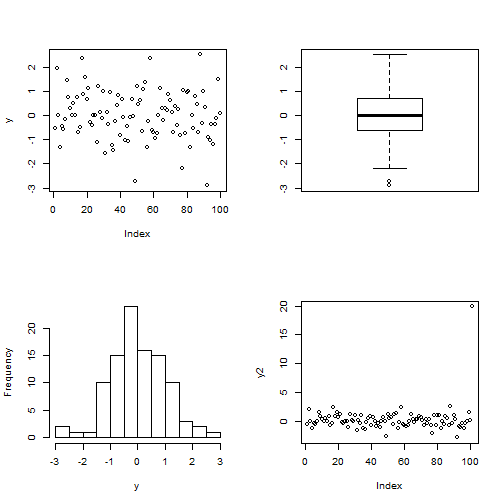
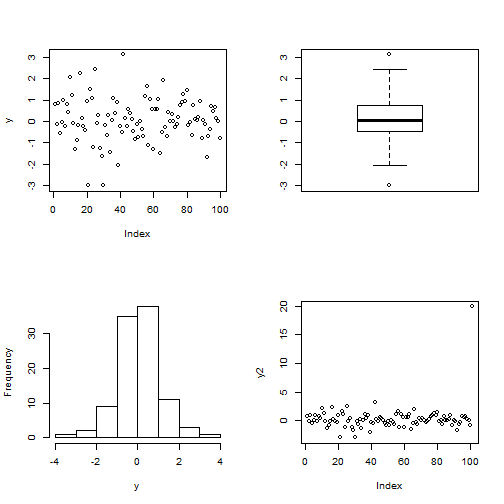
add more example

diff --git a/5 classical tests.md b/5 classical tests.md
@@ -1,7 +1,7 @@
 Classical Tests
 ========================================================
 author: Guochun Shen
-date: Mon Mar 24 19:25:23 2014
+date: Tue Mar 25 20:07:42 2014
 
 Occam's razor
 ========================================================
@@ -57,7 +57,7 @@ summary(y)
 
 ```
    Min. 1st Qu.  Median    Mean 3rd Qu.    Max. 
--2.9100 -0.6200 -0.0122  0.0183  0.7000  2.5400 
+-3.0000 -0.4560  0.0297  0.0763  0.7320  3.1500 
 ```
 
 
@@ -86,7 +86,7 @@ shapiro.test(y)
 	Shapiro-Wilk normality test
 
 data:  y
-W = 0.987, p-value = 0.4358
+W = 0.9803, p-value = 0.1401
 ```
 
 
@@ -103,7 +103,7 @@ shapiro.test(x)
 	Shapiro-Wilk normality test
 
 data:  x
-W = 0.8178, p-value = 0.0001411
+W = 0.4259, p-value = 9.576e-10
 ```
 
 
@@ -133,13 +133,13 @@ t.test(x,mu=0)
 	One Sample t-test
 
 data:  x
-t = 8.559, df = 99, p-value = 1.497e-13
+t = 9.919, df = 99, p-value < 2.2e-16
 alternative hypothesis: true mean is not equal to 0
 95 percent confidence interval:
- 0.6866 1.1009
+ 0.7861 1.1792
 sample estimates:
 mean of x 
-   0.8938 
+   0.9826 
 ```
 
 
@@ -168,7 +168,7 @@ wilcox.test(y,mu=1)
 	Wilcoxon signed rank test with continuity correction
 
 data:  y
-V = 256, p-value = 8.191e-05
+V = 248, p-value = 2.607e-06
 alternative hypothesis: true location is not equal to 1
 ```
 
@@ -199,13 +199,13 @@ var.test(x,y)
 	F test to compare two variances
 
 data:  x and y
-F = 0.0329, num df = 99, denom df = 88, p-value < 2.2e-16
+F = 0.0495, num df = 99, denom df = 88, p-value < 2.2e-16
 alternative hypothesis: true ratio of variances is not equal to 1
 95 percent confidence interval:
- 0.02181 0.04938
+ 0.03280 0.07427
 sample estimates:
 ratio of variances 
-            0.0329 
+           0.04948 
 ```
 
 
@@ -226,10 +226,168 @@ fligner.test(y~g)
 	Fligner-Killeen test of homogeneity of variances
 
 data:  y by g
-Fligner-Killeen:med chi-squared = 78.79, df = 1, p-value < 2.2e-16
+Fligner-Killeen:med chi-squared = 79.05, df = 1, p-value < 2.2e-16
 ```
+
+
+Comparing two means
+==============================================
+
+There are two classical tests for comparing two sample means:
+
+- Student's test when the samples are independent, the variances constant, and the errors are normally distributed;
+- Wilcoxon's rank-sum test when the samples are independent but the errors are not normally distributed.
+
+Comparing two means- Student's t test
+==============================================
+
+Student was the pseudonym of W.S. Gossett who published his influential paper in Biometrika in 1908. The
+archaic employment laws in place at the time allowed his employer, the Guinness Brewing Company, to
+prevent him publishing independent work under his own name.
+
+Student’s t distribution, later perfected by R.A. Fisher, revolutionized the study of small-sample statistics where inferences need to be made on the basis of the sample variance s^2 with the population variance σ^2 unknown (indeed, usually unknowable).
 
 
 Comparing two means- Student's t test
 ==============================================
+
+
+```r
+r1=t.test(x,y)
+r1
+```
+
+```
+
+	Welch Two Sample t-test
+
+data:  x and y
+t = 2.398, df = 247, p-value = 0.01723
+alternative hypothesis: true difference in means is not equal to 0
+95 percent confidence interval:
+ 0.2392 2.4395
+sample estimates:
+mean of x mean of y 
+ 1.344797  0.005467 
+```
+
+
+Comparing two means- Wilcoxon rank-sum test
+==============================================
+
+
+```r
+r2=wilcox.test(x,y)
+r2
+```
+
+```
+
+	Wilcoxon rank sum test with continuity correction
+
+data:  x and y
+W = 10044, p-value = 0.3798
+alternative hypothesis: true location shift is not equal to 0
+```
+
+
+Comparing two means
+=============================================
+
+The Wilcoxon test is aid to be conservative: if a difference is significant under a Wilcoxon test it would be even more significant under a _t_ test.
+
+
+```r
+r1$p.value # pvalue of Student t test
+```
+
+```
+[1] 0.01723
+```
+
+```r
+r2$p.value # pvalue of Wilcoxon test
+```
+
+```
+[1] 0.3798
+```
+
+
+Comparing two means - paired samples
+=============================================
+
+Sometimes, two-sample data come from paired observations. In this case, we might expect a correlation
+between the two measurements, because they were either made on the same individual, or taken from the
+same location.
+
+Comparing two means - paired samples
+=============================================
+
+The following data are a composite biodiversity score based on a kick sample of aquatic invertebrates:
+
+
+```r
+streams = read.table("./data/streams.txt",header=T)
+attach(streams)
+names(streams)
+```
+
+```
+[1] "down" "up"  
+```
+
+
+The elements are paired because the two samples were taken on the same river, one upstream and one
+downstream from the same sewage outfall.
+
+Comparing two means - paired samples
+=============================================
+
+If we ignore the fact that the samples are paired, it appears that the sewage outfall has no impact on
+biodiversity score (p = 0.6856):
+
+```r
+t.test(down,up)
+```
+
+```
+
+	Welch Two Sample t-test
+
+data:  down and up
+t = -0.4088, df = 29.75, p-value = 0.6856
+alternative hypothesis: true difference in means is not equal to 0
+95 percent confidence interval:
+ -5.248  3.498
+sample estimates:
+mean of x mean of y 
+    12.50     13.38 
+```
+
+
+Comparing two means - paired samples
+=============================================
+
+However, if we allow that the samples are paired, the picture is completely different:
+
+
+```r
+t.test(down,up,paired=TRUE)
+```
+
+```
+
+	Paired t-test
+
+data:  down and up
+t = -3.05, df = 15, p-value = 0.0081
+alternative hypothesis: true difference in means is not equal to 0
+95 percent confidence interval:
+ -1.4864 -0.2636
+sample estimates:
+mean of the differences 
+                 -0.875 
+```
+
 
